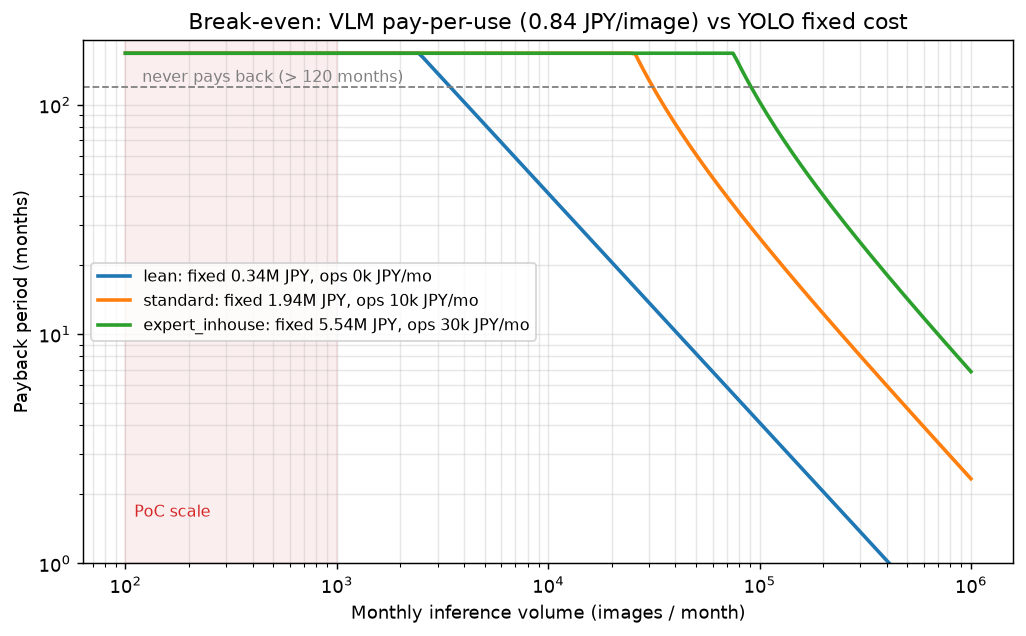
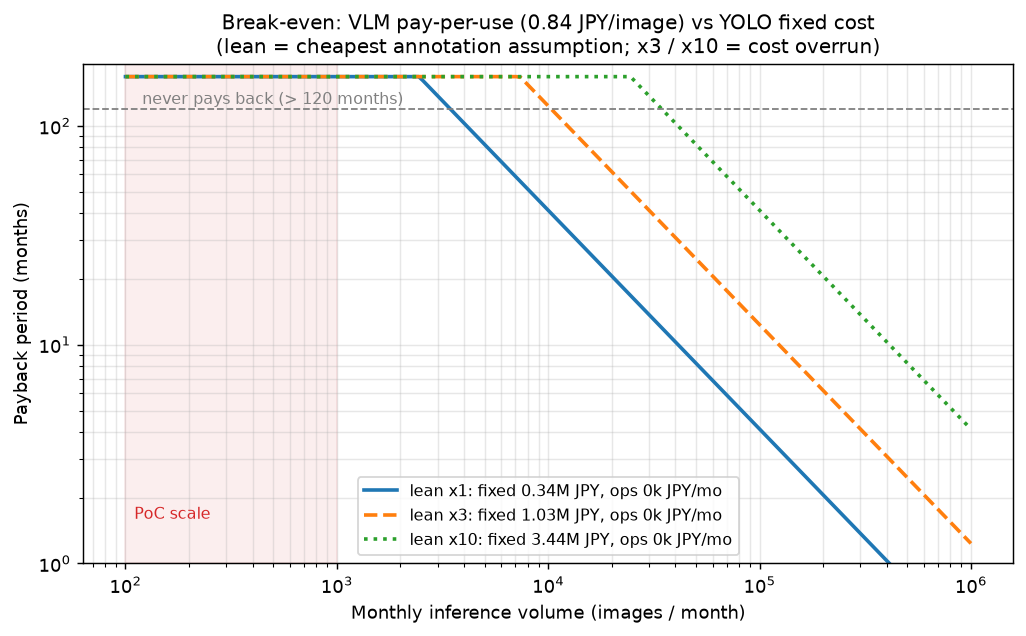
損益分岐のシナリオを最安ケース 1 本に絞り、固定費倍率の感度に置き換える
3 シナリオ(最安/標準/内製)を並べていたが、実務で現実的なのは最安ケースのみ。中位・高位の
点推定を並べるより、「YOLO に最も有利な下限で結論が出る」= a fortiori の形にした方が主張が
強く、読み手も自分の条件に当てはめやすい。

- conf/costs.yaml: scenarios を lean 1 本に。落とした 2 本の単価水準は「実際はこちらに動く」
  参考値としてコメントで残す(下限であることの根拠になるため)。fixed_cost_multipliers を追加
- breakeven.py: 固定費を n 倍に振った感度(損益分岐枚数・回収期間)を算出し、図も倍率ごとに
  描く。3 本が平行に動く = 効くのは固定費の絶対値ではなく推論量の桁、が図で分かる
- REPORT §5b: 下限の取り方(単価・枚数・運用費をどう最安側に倒したか)を表で明示し、
  結果は下限 + 感度の形に差し替え
- README: サマリ行を下限フレームに更新

結論は変わらない: PoC 規模(月 数百〜数千枚)では最安条件でも回収不能で、固定費を 10 倍に
振っても向きは変わらない。切り替えの目安は月間 1 万枚のオーダー。

diff --git a/tests/test_breakeven.py b/tests/test_breakeven.py
@@ -24,6 +24,7 @@ def _costs() -> dict:
         },
         "horizons_months": [6, 12],
         "monthly_volumes": [500, 500000],
+        "fixed_cost_multipliers": [1, 10],
     }
 
 
@@ -77,10 +78,23 @@ def test_analyze_structure_and_never_payback_at_poc_scale():
     assert res["scenarios"]["with_ops"]["payback_months"]["500000"] is not None
 
 
+def test_sensitivity_scales_break_even_linearly_with_fixed_cost():
+    """最安条件を下限として置くので、上振れ側は固定費の倍率で見る(a fortiori)。"""
+    sens = analyze(_costs())["scenarios"]["cheap"]["sensitivity_by_fixed_cost"]
+    assert set(sens) == {"x1", "x10"}
+    assert sens["x10"]["fixed_total_jpy"] == 10 * sens["x1"]["fixed_total_jpy"]
+    assert sens["x10"]["break_even_images"] == pytest.approx(
+        10 * sens["x1"]["break_even_images"], rel=1e-3)  # 丸め誤差のみ許容
+    # 固定費が 10 倍でも「PoC 規模では回収不能」の向きは変わらない
+    assert sens["x1"]["payback_months"]["500000"] is not None
+    assert sens["x10"]["payback_months"]["500000"] is not None
+
+
 def test_markdown_reports_unrecoverable_cases():
     md = to_markdown(analyze(_costs()))
     assert "損益分岐" in md and "回収不能" in md
     assert "cheap" in md and "with_ops" in md
+    assert "感度" in md and "x10" in md
 
 
 def test_figure_writes_png(tmp_path):

diff --git a/report/REPORT.md b/report/REPORT.md
@@ -216,53 +216,65 @@ VLM  累計(T ヶ月) = 0.84 円/枚 × 月間枚数 M × T
 C_fix = ラベル枚数 × 1枚あたり矩形数 × 矩形単価 × 手戻り係数 + 学習工数 × 時間単価
 ```
 
-VLM 側の 0.84 円/枚 は実測(251 円 ÷ 300 枚)。**YOLO 側の固定費は環境依存で測れないので点推定は
-出さず**、公開値から低位/中位/高位の 3 シナリオを置いて**結論が反転する境界**を出す(しきい値を
-点で決めず band で語った §2 と同じ扱い)。前提値と出典は `conf/costs.yaml`、再計算は
-`python -m src.analysis.breakeven`(API 不要・無料)。想定は専門ドメインのチェックリスト 10 項目
-(= 検出クラス 10、付録の配管デモと同規模)。
+VLM 側の 0.84 円/枚 は実測(251 円 ÷ 300 枚)。**YOLO 側の固定費は環境依存で測れない**ので、
+ここでは点推定を狙わず、**公開値の中で最も安い条件 = YOLO に最も有利な下限**を置く。下限で
+結論が出れば、実際の条件はそれより高くなる方向にしか動かないので結論は補強される(a fortiori)。
+上振れ側は固定費を 3 倍・10 倍に振った感度で確認する。前提値と出典は `conf/costs.yaml`、
+再計算は `python -m src.analysis.breakeven`(API 不要・無料)。
 
-| シナリオ | ラベル費 | 学習工数 | 固定費 計 | 運用/月 | 損益分岐の累計枚数 |
-|---|---|---|---|---|---|
-| `lean`(推奨枚数を割り最安単価) | 104,400 円 | 240,000 円 | **344,400 円** | 0 円 | **411,633 枚** |
-| `standard`(推奨枚数・国内外注) | 975,000 円 | 960,000 円 | **1,935,000 円** | 10,000 円 | **2,312,749 枚** |
-| `expert_inhouse`(有識者が内製) | 3,937,500 円 | 1,600,000 円 | **5,537,500 円** | 30,000 円 | **6,618,526 枚** |
+想定は専門ドメインのチェックリスト 10 項目(= 検出クラス 10、付録の配管デモと同規模)。
+下限の取り方:
 
-**月間枚数ごとの回収期間**(運用費込み。「回収不能」= VLM の月額 ≤ YOLO の運用月額で交点が
-存在しない、または 120 ヶ月超):
+| 項 | 置いた値 | より高くなる方向(実際にはこちらに動く) |
+|---|---|---|
+| 矩形単価 | 5.8 円（$0.036/object, クラウドソーシング最安） | 国内外注の相場は 10 円〜、有識者の内製なら 42 秒/矩形 × 時給 ≒ 35 円 |
+| ラベル枚数 | 3,000 枚（10 クラス × 300 枚） | Ultralytics 推奨(≧1500 枚/クラス)なら 15,000 枚 |
+| 運用月額 | 0 円（既存基盤に相乗り） | 専用の推論サーバ・監視を持てば月数万円 |
 
-| シナリオ | 500 枚/月 | 5,000 枚/月 | 50,000 枚/月 | 500,000 枚/月 |
+| ラベル費 | 学習工数 | 固定費 計 | 運用/月 | 損益分岐の累計枚数 |
 |---|---|---|---|---|
-| `lean` | **回収不能** | 82.3 ヶ月 | 8.2 ヶ月 | 0.8 ヶ月 |
-| `standard` | **回収不能** | **回収不能** | 60.8 ヶ月 | 4.7 ヶ月 |
-| `expert_inhouse` | **回収不能** | **回収不能** | **回収不能** | 14.3 ヶ月 |
+| 104,400 円 | 240,000 円 | **344,400 円** | 0 円 | **411,633 枚** |
+
+**月間枚数ごとの回収期間**(「回収不能」= VLM の月額 ≤ YOLO の運用月額で交点が存在しない、
+または 120 ヶ月超):
+
+| 固定費 | 500 枚/月 | 5,000 枚/月 | 50,000 枚/月 | 500,000 枚/月 |
+|---|---|---|---|---|
+| **下限(×1) 34 万円** | **回収不能** | 82.3 ヶ月 | 8.2 ヶ月 | 0.8 ヶ月 |
+| ×3(103 万円) | **回収不能** | **回収不能** | 24.7 ヶ月 | 2.5 ヶ月 |
+| ×10(344 万円) | **回収不能** | **回収不能** | 82.3 ヶ月 | 8.2 ヶ月 |
+
+参考: 期間を先に決めた場合に必要な月間枚数(下限ケース)は、3 ヶ月で 137,211 枚/月、
+12 ヶ月で 34,303 枚/月、36 ヶ月で 11,434 枚/月。
 
 ![損益分岐](figures/breakeven.png)
 
-**読み(仮定をどう振っても動かない部分)**
+**読み**
 
-- **PoC 規模(月 数百〜数千枚)では、固定費をどれだけ低く見積もっても回収できない。** 最安の
-  `lean` ですら損益分岐は累計 41 万枚で、月 500 枚なら 68 年かかる計算になる。**「PoC だから VLM」
-  は感想ではなく、桁で言える結論**である。
-- 逆に**月 5 万枚を超えると景色が変わる**: `lean` なら 8 ヶ月、`standard` でも 5 年で回収圏に入る。
-  月 50 万枚なら全シナリオが 1 年台以内。**判断を見直すべき閾値は「月間 1 万枚のオーダー」**。
-- 感度: 固定費を 10 倍に振っても、必要な月間枚数が 10 倍になるだけで**上の結論の向きは変わらない**
-  (図の 3 本は平行に動く)。効くのは固定費の絶対値ではなく**推論量の桁**である。
+- **PoC 規模(月 数百〜数千枚)では、最も安い条件でも回収できない。** 下限ケースの損益分岐は
+  累計 41 万枚で、月 500 枚なら 823 ヶ月(約 68 年)かかる計算になる。**「PoC だから VLM」は
+  感想ではなく、桁で言える結論**である。
+- 逆に**月 5 万枚を超えると景色が変わる**: 下限ケースなら 8 ヶ月で回収圏。**判断を見直すべき閾値は
+  「月間 1 万枚のオーダー」**。
+- **固定費を 10 倍に振っても向きは変わらない**(図の 3 本は平行に動くだけ)。効くのは固定費の
+  絶対値ではなく**推論量の桁**である。逆に言えば、アノテーション単価の見積もりを精密にしても
+  意思決定は動かない — **見るべきは月間枚数**。
 - 運用月額が VLM の月額を上回るとき、**交点はそもそも存在しない**(いくら使い続けても YOLO の方が
-  高いまま)。低ボリューム帯で「回収不能」が並ぶのはこのため。自前推論は無料ではない。
+  高いまま)。自前推論は無料ではない。
 
 **この分析が使えない場合**
 
 - **精度互角(§1)が前提**。語彙外・ラベル無しの第二象限(§7)では、YOLO はいくら固定費を払っても
   要件を満たさないため**交点が存在しない**。本節は第一象限限定の道具である。
 - **ラベル N 枚で目標精度に届く保証は本作では検証していない**(fine-tuning はスコープ外、§6)。
-  ここが最大の不確実性で、届かなければ固定費は表の値より膨らむ。
+  ここが最大の不確実性で、届かなければ固定費は表の値より膨らむ(= 感度表の上振れ側に寄る)。
 - 手戻り係数・工数・運用費・時給は**出典のない仮定**。`conf/costs.yaml` を自分の数字に差し替えて
   再計算すること(コマンド 1 本・無料)。
 
-**前提値の出典**(2026-08-31 取得): 矩形 1 対象 10 円〜([ai-market.jp](https://ai-market.jp/ai_price/annotation-fee/) /
-[nextremer](https://www.nextremer.com/data-annotation/blog/annotation-pricing))、$0.036/object
+**前提値の出典**(2026-08-31 取得): $0.036/object
 ([SageMaker Ground Truth](https://aws.amazon.com/sagemaker-ai/groundtruth/pricing/))、
+矩形 1 対象 10 円〜([ai-market.jp](https://ai-market.jp/ai_price/annotation-fee/) /
+[nextremer](https://www.nextremer.com/data-annotation/blog/annotation-pricing))、
 42 秒/矩形([Papadopoulos et al. CVPR 2016](https://arxiv.org/abs/1602.08405) が Su et al. 2012 を引用)、
 学習データ推奨 ≧1500 枚/クラス([Ultralytics](https://docs.ultralytics.com/yolov5/tutorials/tips-for-best-training-results))。
 
